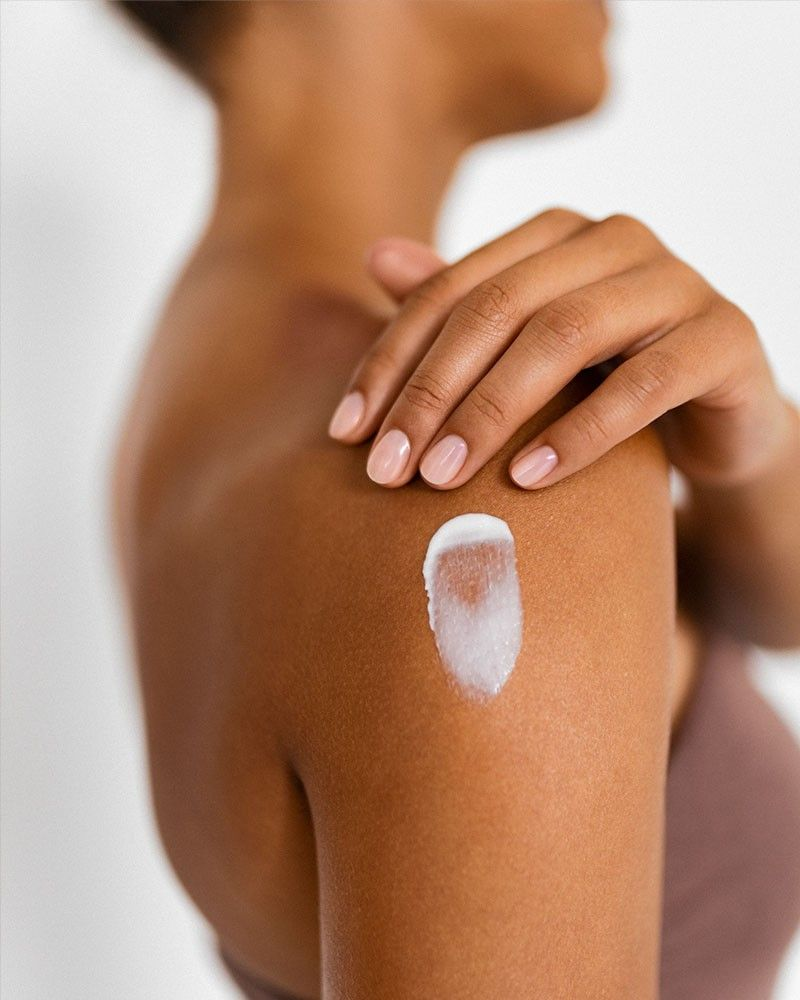
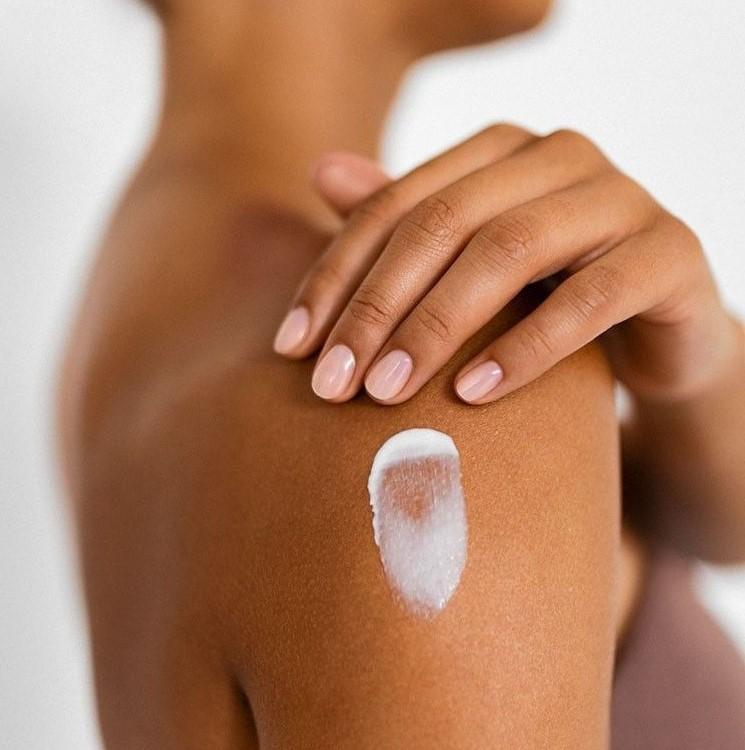
changes to the shop page

diff --git a/src/Pages/ViewProduct.jsx b/src/Pages/ViewProduct.jsx
@@ -1,22 +1,16 @@
 import { ChevronLeft, ChevronRight } from "lucide-react";
 import Navbar from "../components/NavBar";
-import BgImage6 from "../assets/images/bg-6.jpg";
+
 import { Link } from "react-router"; 
-import { useRef, useState } from "react";
+import { useRef, useState, } from "react";
 import SalesCard from "../components/SalesCard";
 import Footer from "../components/Footer";
-import { useCart } from "../context/CartContext";
+import { useCart, } from "../context/CartContext";
 import '@fontsource/poppins';
 import { useParams, useNavigate } from "react-router";
+import ProductsData from "../Data/Products";
 
-const productData = {
-  id: 1,
-  name: "Shea Butter",
-  price: 12.0,
-  image: BgImage6,
-  description:
-    "Neem Dream is our African black soap facial cleanser featuring Nokware’s holy grail acne fighting, hyperpigmentation rockstar ingredient neem oil.",
-};
+
 
 export default function ViewProduct() {
   const scrollRef = useRef(null);
@@ -49,7 +43,7 @@ export default function ViewProduct() {
     }
   };
 const { id } = useParams();
-const product = productData; 
+ const product = ProductsData.find((p) => p.id === id);
 
     if (!product) return <p>Product not found.</p>;
 
@@ -73,17 +67,19 @@ const product = productData;
         <div className="flex flex-col md:flex-row justify-between md:gap-10">
           <div className="md:w-1/2 pt-10 ">
             <img
-              src={productData.image}
+              src={ProductsData.image}
               className="w-full md:w-[500px] md:max-h-[500px] object-cover h-auto max-h-[300px]"
-              alt={productData.name}
+              alt={ProductsData.name}
             />
           </div>
           {/* Text and Controls */}
           <div className="md:w-1/2 flex flex-col gap-4 md:pt-16 ">
-            <h2 className="text-3xl font-bold">{productData.name}</h2>
-            <h3 className="text-lg font-semibold ">Gh₵{productData.price.toFixed(2)}</h3>
+          
+            <p>{ProductsData.id}</p>
+            <img src={ProductsData.image} alt={ProductsData.alt} />
+            <h3 className="text-lg font-semibold ">Gh₵{ProductsData.price}</h3>
             <p className="text-lg/7 font-light pt-2 pb-2">
-              {productData.description}
+              {ProductsData.description}
             </p>
             <div className="flex flex-col">
               <h2 className="font-semibold mb-1 items-center">Quantity</h2>
@@ -104,7 +100,7 @@ const product = productData;
             <div className="flex flex-col gap-4">
               <div>
                <button
-  onClick={() => addToCart(productData, quantity)}
+  onClick={() => addToCart(ProductsData, quantity)}
   className="w-full px-6 py-2 border border-green-700 hover:bg-green-700 text-green-700 hover:text-white transition duration-300"
 >
   Add to Cart

diff --git a/src/Data/Products.js b/src/Data/Products.js
@@ -1,0 +1,49 @@
+import SheaImg1 from '../assets/images/baby-shea.jpg';
+import SheaImg2 from '../assets/images/skin-shea.jpg';
+import SheaImg3 from '../assets/images/shea-hair.jpg';
+import SheaImg4 from '../assets/images/shea-soap.jpg';
+
+const ProductsData = [
+    {
+        id: 1,
+        image: SheaImg1,
+        category: 'Skin Products',
+        name: 'Baby Shea Product',
+        price: '50',
+        description: 'Gentle and nourishing, our Baby Shea Butter keeps your little one’s skin soft, smooth, and protected all day. Made with 100% natural shea butter, perfect for delicate, sensitive skin.'
+
+       
+    },
+    {
+        id: 2,
+        image: SheaImg2,
+        category: 'Hair Products',
+        name: 'Shea Skin Product',
+        price: '80',
+        description: 'Our Shea Skin products are rich in vitamins and natural moisture, keeping your skin smooth and radiant.They protect, heal, and hydrate for healthy, glowing skin all year round.'
+
+       
+    },
+    {
+        id: 3,
+        image: SheaImg3,
+        category: 'Hair Products',
+        name: 'Shea Hair Product',
+        price: '100',
+        description: 'Our Shea Butter Hair Cream deeply moisturizes and strengthens from root to tip.Leaves hair soft, shiny, and easy to manage every day.'
+
+       
+    },
+    {
+        id: 4,
+        image: SheaImg4,
+        category: 'Soap Products',
+        name: 'Natural Black Soap',
+        price: '300',
+        description: 'Our Shea Soap products gently cleanse while locking in natural moisture for soft, healthy skin.Infused with nourishing shea butter, they leave your skin refreshed, smooth, and radiant.'
+
+       
+    }
+]
+
+export default ProductsData;

diff --git a/src/Pages/Shop.jsx b/src/Pages/Shop.jsx
@@ -6,20 +6,11 @@ import { useState } from "react";
 import '@fontsource/poppins';
 import { ChevronRight } from "lucide-react";
 import { Link } from "react-router";
-import TestImage from '../assets/images/shea.jpg'
+import TestImage from '../assets/images/shea.jpg';
+import ProductsData from "../Data/Products";
 
 
-const ProductsData = [
-    { id: 1, name: 'Butter',price:'Gh₵300', category: 'Soap Products', image: TestImage  },
-    { id: 2, name: 'U Hair', price:'Gh₵200', category: 'Hair Products',image: TestImage  },
-    { id: 3, name: 'Lizzy Cream', price:'Gh₵100', category: 'Skin Products', image: TestImage },
-    { id: 4, name: 'plain Shea', price:'Gh₵400', category: 'Soap Products', image: TestImage },
-    { id: 5, name: 'Soft Hair', price:'Gh₵600', category: 'Hair Products',image: TestImage },
-    { id: 6, name: 'Soft Skin', price:'Gh₵1600', category: 'Skin Products', image: TestImage },
-    { id: 7, name: 'Plant Shea', price:'Gh₵900', category: 'Soap Products',image: TestImage },
-    { id: 8, name: 'Many Hair', price:'Gh₵800', category: 'Hair Products', image: TestImage },
-    { id: 9, name: 'Brown Skin', price:'Gh₵600', category: 'Skin Products',image: TestImage },
-]
+ 
 
 export default function Shop() {
         const [SelectCategory, SetSelectCategory] = useState('All Products');

diff --git a/src/Pages/CartPage.jsx b/src/Pages/CartPage.jsx
@@ -1,5 +1,6 @@
 import { useCart } from "../context/CartContext";
 
+
 export default function CartPage() {
   const { cartItems, removeFromCart, clearCart, updateCartItemQuantity } = useCart();
 
@@ -21,7 +22,7 @@ export default function CartPage() {
   return (
     <aside className="fixed top-20 right-4 z-40 bg-white shadow-lg rounded-md w-80 max-h-[80vh] overflow-y-auto font-poppins">
       {/* Header */}
-      <div className="bg-green-500 p-4 rounded-t-lg text-white">
+      <div className="bg-green p-4 rounded-t-lg text-white">
         <h1 className="text-lg font-semibold">
           Cart ({itemCount} item{itemCount !== 1 ? "s" : ""})
         </h1>

diff --git a/src/Pages/Home.jsx b/src/Pages/Home.jsx
@@ -130,10 +130,9 @@ export default function Home() {
   </p>
 
   <div className="md:mt-8">
-   <Link to={"/shop?category=encodeURIComponent('Skin Products')"}>
-
-      <FilterrButton title="Shop Skin Products"  />
-    </Link>
+    <Link to={`/shop?category=${encodeURIComponent('Skin Products')}`}>
+                                <FilterrButton title="Shop Skin Products"  />
+                            </Link>
   </div>
 </div>
 

diff --git a/index.html b/index.html
@@ -2,7 +2,7 @@
 <html lang="en">
   <head>
     <meta charset="UTF-8" />
-    <link rel="icon" type="image/png" href="/logo2.png" />
+    <link rel="icon" type="image/png" href="/theme.png" />
     <meta name="viewport" content="width=device-width, initial-scale=1.0" />
     <title>Khalimatu Sadia Shea Butter Enterprise</title>
 
